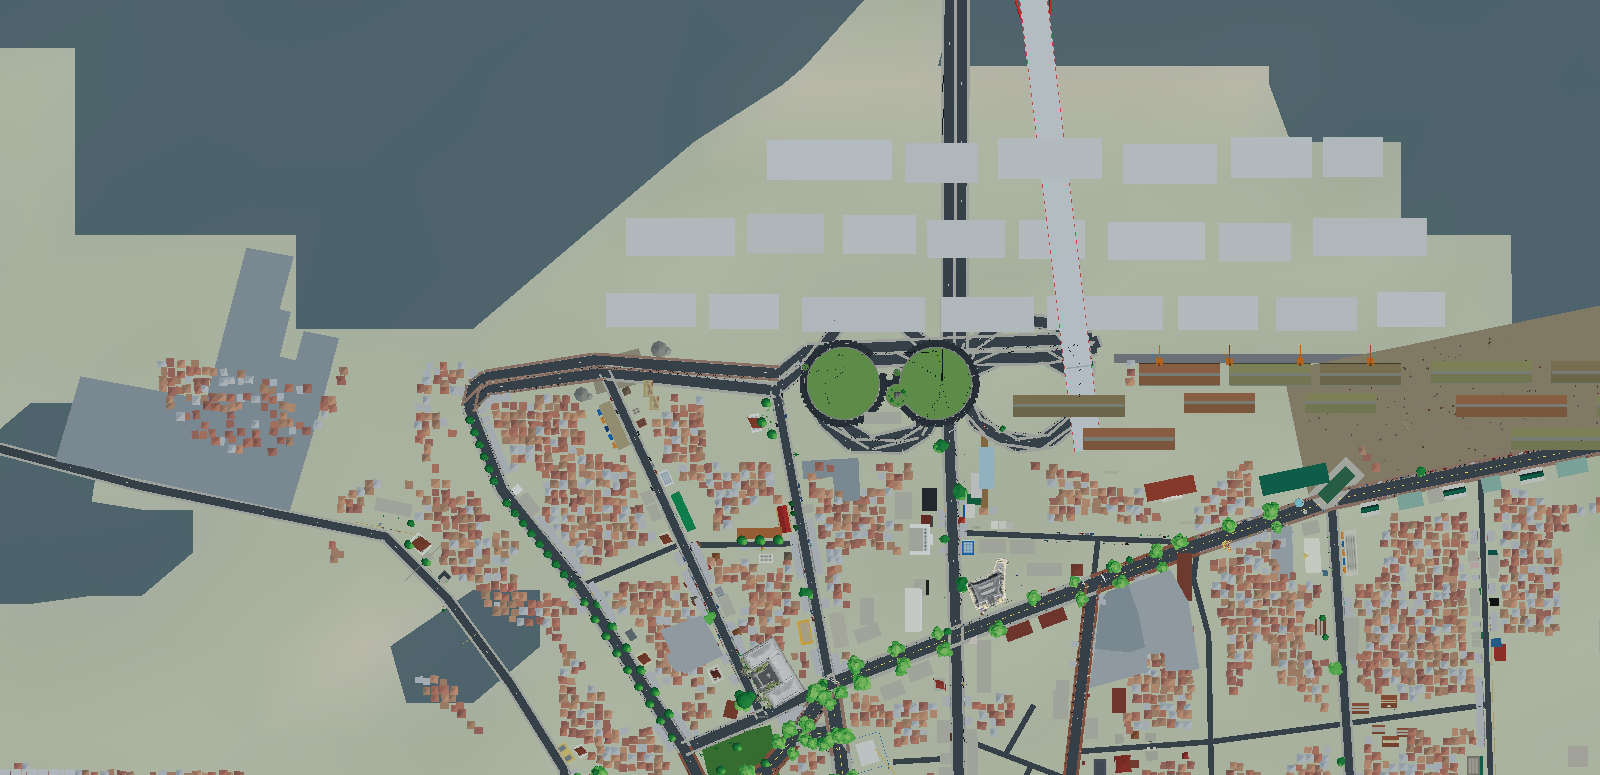
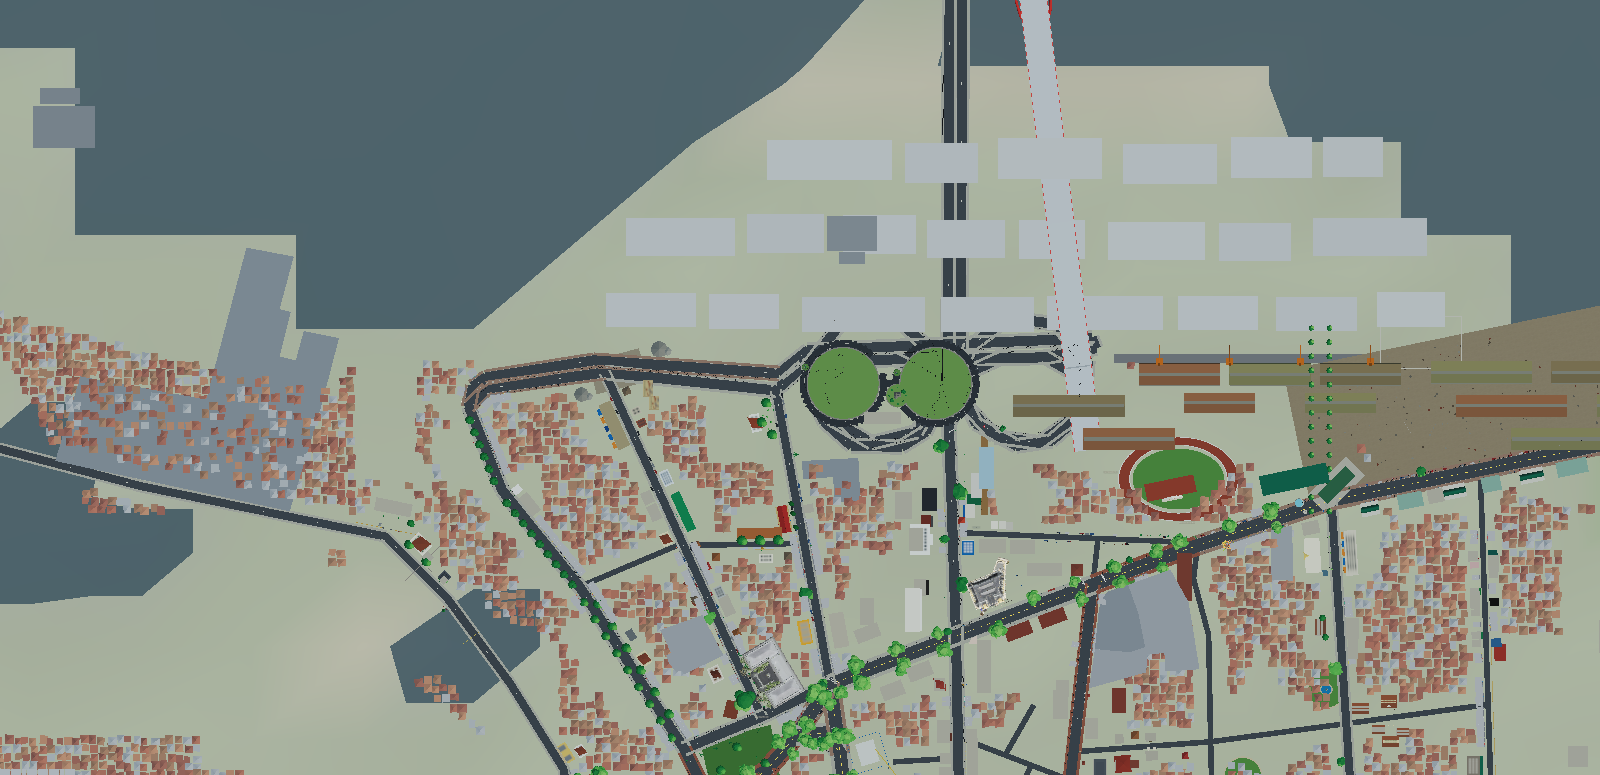
L2/L3: vườn NBK + tổ hợp civic t8 + 3 anchor + mật độ đúng chỗ (full-agent draft)
3 agent song song nháp block tự chứa (guard đất, node-check), tích hợp:
- garden6: vườn hoa Nguyễn Bỉnh Khiêm + đài phun + 2 bồn tròn hình học (t6).
- civic8: oval track + parterre + đại lộ cây + tường bao (t8, cắt tránh chồng kho).
- anchor: Sở GTVT (t7), Cảng vụ (t8), BV Quốc tế (t1) — khối lớn vệ tinh.
- _forceDense: mật độ 3 rect real-dày (bán đảo t7, LHP t4, Tam Bạc t1) — giữ guard đường/nước.
Verify aerial: t6 vườn+oval, t7 bán đảo dày. KNOWLEDGE (ck).

diff --git a/js/world.js b/js/world.js
@@ -18815,6 +18815,12 @@ const s4Tower = (x, z, ry, W, D, FL, wallHex, name, signTxt, signBg) => {
       for (let i = 0; i < n; i++) { const sh = 0.78 + 0.22 * Math.max(0, nr.getY(i) * 0.5 + 0.5); c[i*3]=rgb[0]*sh; c[i*3+1]=rgb[1]*sh; c[i*3+2]=rgb[2]*sh; }
       g.setAttribute('color', new THREE.BufferAttribute(c, 3)); return g;
     };
+    // VÙNG REAL-DÀY nhưng game trống (audit georog): bỏ yêu cầu evidence OSM (vẫn giữ guard đường/nước/openSpace).
+    const _forceDense = (x, z) => (
+      (x > -1200 && x < -650 && z > -1250 && z < -800) ||   // bán đảo Sở GTVT/Bạch Đằng (t7)
+      (x > -1300 && x < -800 && z > -600 && z < -250) ||    // Lê Hồng Phong lấp (t4)
+      (x > -1050 && x < -750 && z > 380 && z < 600)         // Tam Bạc góc dưới-giữa (t1)
+    );
     for (let gx = -1750; gx <= 900 && nB < CAPB; gx += 8.5) {   // mở biên TÂY -1100→-1750 (phủ rìa tây t4/t7 real dày nhà; guard evidence tự giới hạn)
       for (let gz = -1320; gz <= 560 && nB < CAPB; gz += 8.5) {  // mở biên BẮC -900→-1320 (phủ bán đảo Sở GTVT/Bạch Đằng t7; guard water/superblock chừa sông Cấm+cảng)
         const x = gx + (brnd() - 0.5) * 4, z = gz + (brnd() - 0.5) * 4;
@@ -18825,7 +18831,7 @@ const s4Tower = (x, z, ry, W, D, FL, wallHex, name, signTxt, signBg) => {
         if (big > 130 && alley > 130) continue;                       // quá xa mọi đường = ngoại vi trống
         if (nearPanoCam(x, z, 5)) continue;                           // KEEP-CLEAR camera pano
         if (_gridNear(_bldGrid, x, z, 10.5)) continue;                // né nhà OSM thật (13→10.5: nhà infill sát cụm OSM hơn)
-        if (!(_gridNear(_bldGrid, x, z, 95) || _gridNear(_phGrid, x, z, 60))) continue; // Ô PHẢI CÓ BẰNG CHỨNG nhà (nới 60→95: lấp kín giữa cụm OSM như thực tế)
+        if (!(_gridNear(_bldGrid, x, z, 95) || _gridNear(_phGrid, x, z, 60) || _forceDense(x, z))) continue; // Ô PHẢI CÓ BẰNG CHỨNG nhà (hoặc vùng real-dày flagged)
         if (openSpace(x, z) || panoDenies(x, z)) continue;
         if (nearFeatured(x, z)) continue;                             // không đè/che công trình đích danh
         if (clearedZone(x, z)) continue;                              // bãi giải tỏa Hoàng Diệu
@@ -18916,6 +18922,158 @@ const s4Tower = (x, z, ry, W, D, FL, wallHex, name, signTxt, signBg) => {
     addMerged(grass, new THREE.MeshLambertMaterial({ color: 0x5a8f43 }), 'parterre_r4_grass');
     addMerged(path, new THREE.MeshLambertMaterial({ color: 0xccbf9c }), 'parterre_r4_path');
     if (dotG.length) addMerged(dotG, new THREE.MeshLambertMaterial({ vertexColors: true }), 'parterre_r4_flowers');
+  }
+
+  // ===== garden6: VƯỜN HOA + ĐÀI PHUN tile6 (khớp real_6) =====
+  {
+    const grassG = [], pathG = [], waterG = [], stoneG = [], dotG = [], trunkG = [], leafG = [];
+    let gs = 60617; const grnd = () => { gs = (gs * 1103515245 + 12345) & 0x7fffffff; return gs / 0x7fffffff; };
+    const g6ok = (x, z) => !isWater(x, z) && Math.abs(groundHeightNoDeck(x, z) - LAND_H) < 0.4;
+    const fountain = (cx, cz, R) => {
+      if (!g6ok(cx, cz)) return;
+      const gy = groundHeight(cx, cz);
+      const water = new THREE.CircleGeometry(R, 28).rotateX(-Math.PI / 2); water.translate(cx, gy + 0.06, cz); waterG.push(water);
+      const rim = new THREE.RingGeometry(R, R + 1.3, 32).rotateX(-Math.PI / 2); rim.translate(cx, gy + 0.10, cz); stoneG.push(rim);
+      const ped = new THREE.CylinderGeometry(R * 0.18, R * 0.24, 1.1, 12); ped.translate(cx, gy + 0.55, cz); stoneG.push(ped);
+      const jet = new THREE.CylinderGeometry(0.12, 0.20, 2.2, 8); jet.translate(cx, gy + 2.20, cz); waterG.push(jet);
+      addCollider(cx, cz, R + 0.6);
+    };
+    const grassBasin = (cx, cz, R) => {
+      if (!g6ok(cx, cz)) return false;
+      const gy = groundHeight(cx, cz);
+      const disk = new THREE.CircleGeometry(R, 30).rotateX(-Math.PI / 2); disk.translate(cx, gy + 0.05, cz); grassG.push(disk);
+      const ring = new THREE.RingGeometry(R, R + 1.5, 34).rotateX(-Math.PI / 2); ring.translate(cx, gy + 0.08, cz); pathG.push(ring);
+      return true;
+    };
+    const tree = (x, z, r) => {
+      if (!g6ok(x, z)) return;
+      const gy = groundHeight(x, z);
+      const tr = new THREE.CylinderGeometry(0.35, 0.45, 3.2, 6); tr.translate(x, gy + 1.6, z); trunkG.push(tr);
+      const cr = new THREE.SphereGeometry(r, 8, 6); cr.translate(x, gy + 3.2 + r * 0.6, z); leafG.push(cr);
+      addCollider(x, z, 1.0);
+    };
+    const wedge = [[-95, -254, 16], [-100, -290, 20], [-108, -325, 24], [-112, -360, 26], [-116, -391, 22], [-118, -401, 14]];
+    for (const [x, z, r] of wedge) {
+      if (!g6ok(x, z)) continue;
+      const gy = groundHeight(x, z);
+      const disk = new THREE.CircleGeometry(r, 26).rotateX(-Math.PI / 2); disk.translate(x, gy + 0.04, z); grassG.push(disk);
+      for (let k = 0; k < 5; k++) {
+        const a = grnd() * 6.283, rr = grnd() * r * 0.8;
+        const fx = x + Math.cos(a) * rr, fz = z + Math.sin(a) * rr;
+        if (!g6ok(fx, fz)) continue;
+        const d = new THREE.CircleGeometry(1.4 + grnd() * 1.1, 8).rotateX(-Math.PI / 2); d.translate(fx, groundHeight(fx, fz) + 0.10, fz);
+        const isRed = grnd() < 0.5, col = d.attributes.position.count, cc = new Float32Array(col * 3);
+        for (let v = 0; v < col; v++) { cc[v * 3] = isRed ? 0.78 : 0.86; cc[v * 3 + 1] = isRed ? 0.22 : 0.72; cc[v * 3 + 2] = isRed ? 0.18 : 0.16; }
+        d.setAttribute('color', new THREE.BufferAttribute(cc, 3)); dotG.push(d);
+      }
+    }
+    fountain(-116, -391, 7);
+    fountain(-95, -254, 6);
+    for (const [tx, tz] of [[-98, -270], [-105, -305], [-114, -345], [-118, -378], [-100, -340], [-120, -395]]) tree(tx, tz, 3.2);
+    for (const [bx, bz] of [[316, -623], [233, -537]]) { if (grassBasin(bx, bz, 18)) fountain(bx, bz, 5); }
+    addMerged(grassG, mat(0x5a8f43), 'garden6_grass');
+    addMerged(pathG, mat(0xccbf9c), 'garden6_path');
+    addMerged(waterG, mat(0x2f7fb5), 'garden6_water');
+    addMerged(stoneG, mat(0xbfb49a), 'garden6_stone');
+    addMerged(trunkG, sharedMats.trunk, 'garden6_trunks');
+    addMerged(leafG, sharedMats.leafDark, 'garden6_leaves');
+    if (dotG.length) addMerged(dotG, new THREE.MeshLambertMaterial({ vertexColors: true }), 'garden6_flowers');
+  }
+
+  // ===== civic8: TỔ HỢP CIVIC ĐÔNG tile8 (khớp real_8) — đại lộ cắt z≥-985 + bỏ đài phun (310,-1089) tránh chồng kho =====
+  {
+    // (1) ĐƯỜNG CHẠY OVAL tâm (169,-832) — sân cỏ + băng đỏ + viền trắng
+    { const cx = 169, cz = -832;
+      if (!isWater(cx, cz) && Math.abs(groundHeightNoDeck(cx, cz) - LAND_H) < 0.4) {
+        const gy = groundHeight(cx, cz), sx = 60, sz = 42;
+        const infield = new THREE.CircleGeometry(1, 48); infield.rotateX(-Math.PI / 2); infield.scale(sx * 0.76, 1, sz * 0.72); infield.translate(cx, gy + 0.04, cz);
+        addMerged([infield], mat(0x5a8f43), 'civic8_track_infield');
+        const band = new THREE.RingGeometry(0.80, 1.0, 64); band.rotateX(-Math.PI / 2); band.scale(sx, 1, sz); band.translate(cx, gy + 0.06, cz);
+        addMerged([band], mat(0x9c4a34), 'civic8_track_band');
+        const lineO = new THREE.RingGeometry(0.985, 1.0, 64); lineO.rotateX(-Math.PI / 2); lineO.scale(sx, 1, sz); lineO.translate(cx, gy + 0.09, cz);
+        const lineI = new THREE.RingGeometry(0.80, 0.815, 64); lineI.rotateX(-Math.PI / 2); lineI.scale(sx, 1, sz); lineI.translate(cx, gy + 0.09, cz);
+        addMerged([lineO, lineI], mat(0xe8e6e0), 'civic8_track_lines'); addCollider(cx, cz, 10);
+      } }
+    // (2) PARTERRE + ĐÀI PHUN (123,-737)
+    { const cx = 123, cz = -737;
+      if (!isWater(cx, cz) && Math.abs(groundHeightNoDeck(cx, cz) - LAND_H) < 0.4) {
+        const gy = groundHeight(cx, cz), R = 15;
+        const grass = new THREE.CircleGeometry(R, 40); grass.rotateX(-Math.PI / 2); grass.translate(cx, gy + 0.04, cz);
+        addMerged([grass], mat(0x5a8f43), 'civic8_parterre_grass');
+        const rim = new THREE.RingGeometry(R - 1.4, R + 0.6, 40); rim.rotateX(-Math.PI / 2); rim.translate(cx, gy + 0.07, cz);
+        addMerged([rim], mat(0xccbf9c), 'civic8_parterre_path');
+        const basin = new THREE.CircleGeometry(4.2, 28); basin.rotateX(-Math.PI / 2); basin.translate(cx, gy + 0.10, cz);
+        addMerged([basin], mat(0x2f7fb5), 'civic8_parterre_water');
+        const jet = new THREE.Mesh(new THREE.CylinderGeometry(0.35, 0.5, 2.4, 8), mat(0x2f7fb5)); jet.position.set(cx, gy + 1.2, cz); jet.name = 'civic8_parterre_jet'; scene.add(jet);
+        addCollider(cx, cz, 4.5);
+      } }
+    // (3) ĐẠI LỘ CÂY x≈310, z −800..−985 (cắt để tránh chồng kho z<-1000)
+    { const trunkG = [], darkG = [], lightG = [];
+      for (let z = -800; z >= -985; z -= 14) {
+        for (const x of [301, 319]) {
+          if (isWater(x, z) || Math.abs(groundHeightNoDeck(x, z) - LAND_H) > 0.4) continue;
+          const gy = groundHeight(x, z);
+          const tr = new THREE.CylinderGeometry(0.26, 0.32, 6, 7); tr.translate(x, gy + 3, z); trunkG.push(tr);
+          const c1 = new THREE.SphereGeometry(3.1, 8, 6); c1.translate(x, gy + 6.6, z); darkG.push(c1);
+          const c2 = new THREE.SphereGeometry(2.1, 8, 6); c2.translate(x + 0.8, gy + 7.6, z - 0.6); lightG.push(c2);
+          addCollider(x, z, 1.1);
+        }
+      }
+      addMerged(trunkG, sharedMats.trunk, 'civic8_ave_trunk');
+      addMerged(darkG, sharedMats.leafDark, 'civic8_ave_leafdark');
+      addMerged(lightG, sharedMats.leafGreen2, 'civic8_ave_leaflight');
+    }
+    // (5) TƯỜNG BAO (compound) tâm (410,-975) — dời bắc nhẹ tránh kho
+    { const cx = 410, cz = -968;
+      if (!isWater(cx, cz) && Math.abs(groundHeightNoDeck(cx, cz) - LAND_H) < 0.4) {
+        const gy = groundHeight(cx, cz), hw = 40, hd = 26, wh = 2.4, th = 1.0, wallG = [];
+        const segs = [[cx, cz - hd, hw * 2 + th, th], [cx, cz + hd, hw * 2 + th, th], [cx - hw, cz, th, hd * 2 - th], [cx + hw, cz, th, hd * 2 - th]];
+        for (const [sx, sz, ww, dd] of segs) {
+          const b = new THREE.BoxGeometry(ww, wh, dd); b.translate(sx, gy + wh / 2, sz); wallG.push(b);
+          const horiz = ww >= dd, len = Math.max(ww, dd), n = Math.max(1, Math.round(len / 8));
+          for (let i = 0; i <= n; i++) { const t = i / n - 0.5; addCollider(sx + (horiz ? t * len : 0), sz + (horiz ? 0 : t * len), th); }
+        }
+        addMerged(wallG, mat(0xcfc9ba), 'civic8_compound_wall');
+      } }
+  }
+
+  // ===== anchor: 3 CÔNG TRÌNH LỚN thiếu (Sở GTVT t7, Cảng vụ t8, BV Quốc tế t1) — vệ tinh top-down =====
+  {
+    const _anchorLand = (x, z) => !isWater(x, z) && Math.abs(groundHeightNoDeck(x, z) - LAND_H) < 0.4;
+    const _anchorVCol = (g, wallHex, roofHex) => {
+      const wc = new THREE.Color(wallHex), rc = new THREE.Color(roofHex);
+      const nrm = g.attributes.normal, cn = g.attributes.position.count, c = new Float32Array(cn * 3);
+      for (let v = 0; v < cn; v++) { const isRoof = nrm.getY(v) > 0.6; const t = isRoof ? rc : wc; const sh = isRoof ? 1.0 : 0.82 + 0.14 * Math.abs(nrm.getX(v)); c[v * 3] = t.r * sh; c[v * 3 + 1] = t.g * sh; c[v * 3 + 2] = t.b * sh; }
+      g.setAttribute('color', new THREE.BufferAttribute(c, 3)); return g;
+    };
+    const _anchorColliders = (cx, cz, w, d) => {
+      if (w >= d) for (const lx of [-w / 3, 0, w / 3]) addCollider(cx + lx, cz, d / 2 + 1);
+      else for (const lz of [-d / 3, 0, d / 3]) addCollider(cx, cz + lz, w / 2 + 1);
+    };
+    const _buildAnchor = (name, ax, az, wallHex, roofHex, blocks) => {
+      if (!_anchorLand(ax, az)) return;
+      const geos = [];
+      for (const b of blocks) {
+        const cx = ax + b.dx, cz = az + b.dz;
+        if (!_anchorLand(cx, cz)) continue;
+        const g = _anchorVCol(new THREE.BoxGeometry(b.w, b.h, b.d), wallHex, roofHex);
+        g.translate(cx, groundHeight(cx, cz) + b.h / 2, cz); geos.push(g);
+        _anchorColliders(cx, cz, b.w, b.d);
+      }
+      if (!geos.length) return;
+      const merged = mergeGeometries(geos); geos.forEach((g) => g.dispose());
+      const m = new THREE.Mesh(merged, new THREE.MeshLambertMaterial({ vertexColors: true }));
+      m.castShadow = true; m.receiveShadow = true; m.name = name; scene.add(m);
+    };
+    _buildAnchor('anchor_sogtvt', -938, -1182, 0xe8dcc0, 0x8a8f96, [
+      { dx: 0, dz: 0, w: 62, d: 42, h: 16 }, { dx: -4, dz: -31, w: 40, d: 16, h: 12 },
+    ]);
+    _buildAnchor('anchor_cangvu', -155, -1076, 0xdfe2e0, 0x8f949a, [
+      { dx: 0, dz: 0, w: 50, d: 34, h: 20 }, { dx: 0, dz: 24, w: 26, d: 12, h: 10 },
+    ]);
+    _buildAnchor('anchor_bvqt', -1013, 482, 0xf2f2ee, 0xbfc4c9, [
+      { dx: 0, dz: 0, w: 50, d: 34, h: 24 }, { dx: -37, dz: 4, w: 24, d: 46, h: 16 }, { dx: 37, dz: -2, w: 24, d: 40, h: 16 },
+    ]);
   }
 
   // vài tòa cao tầng khu Lê Hồng Phong (đông trung tâm)

diff --git a/KNOWLEDGE.md b/KNOWLEDGE.md
@@ -315,6 +315,15 @@ nhờ model vision ngoài chấm từng cặp, sửa theo cụm, lặp tới khi
 
 ## 10. Nhật ký cập nhật (thêm dòng mới ở TRÊN CÙNG)
 
+- **2026-07-15 (ck)** [L2/L3 — full-agent DRAFT + tích hợp: vườn/civic/anchor/mật độ additive world.js]: 3 agent
+    song song nháp block tự chứa (node-check + guard đất `!isWater && |gh-LAND_H|<0.4`), tôi tích hợp: **garden6**
+    (vườn NBK nêm cỏ + 2 đài phun (-116,-391)/(-95,-254) + 2 bồn tròn (316,-623)/(233,-537)); **civic8** (oval
+    track (169,-832) + parterre (123,-737) + đại lộ cây x≈310 + tường bao — cắt tránh chồng kho); **anchor** (Sở
+    GTVT -938,-1182 / Cảng vụ -155,-1076 / BV Quốc tế -1013,482, BoxGeometry vertex-color mái). **Mật độ ĐÚNG CHỖ**
+    (không blanket — ChatGPT cảnh báo): `_forceDense` 3 rect real-dày (bán đảo t7, LHP t4, Tam Bạc t1) nới vào
+    điều kiện evidence block_infill (VẪN giữ guard đường/nước/openSpace). Verify aerial: t6 vườn+oval, t7 bán đảo
+    dày. BÀI HỌC agent-draft: yêu cầu block TỰ CHỨA + API whitelist + guard đất + node-check → tích hợp 1 phát,
+    dịch HTML-entity (`&gt;→>`), agent tự probe đất + dời tâm tránh nước (SGTVT 17m tây) — chất lượng cao, nhanh.
 - **2026-07-15 (cj)** [L1 HYDRO — sửa nước theo audit georef + 2 vòng phản biện ChatGPT]: (1) **hồ Quần Ngựa t3**
     (real có, game thiếu) — ellipse override groundHeightNoDeck tâm ~(600,228), nhà tự loại qua isWater; (2) **nắn
     R3 kênh Tam Bạc** hết chạy XUYÊN tile6 (real 0 nước) → trục thật x≈-860..-1133 qua cầu Lạc Long (splice
